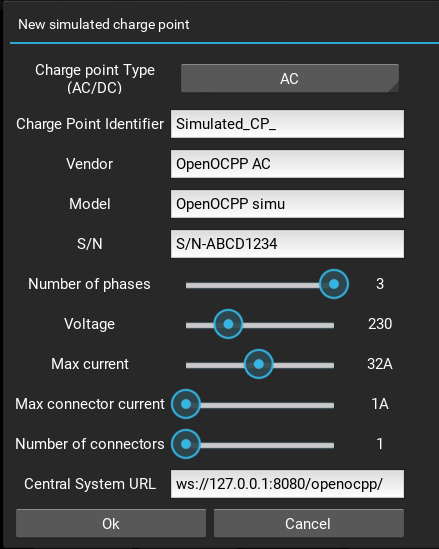
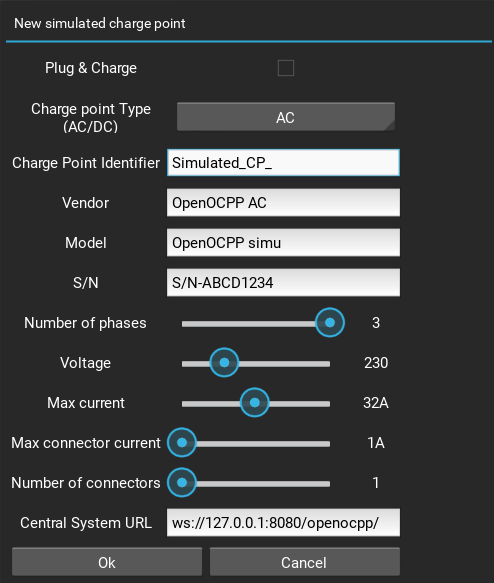
Update doc for iso15118 PnC

diff --git a/README.md b/README.md
@@ -247,10 +247,10 @@ Payload :
 {
     "type": "start",
     "charge_points": [
-        { "id": "simu_cp_XXX", "type": "AC", "vendor": "Open OCPP AC", "model": "Simulated CP", "serial": "S/NABCD1234", "central_system": "ws://localhost:8080", "nb_connectors": 1, "nb_phases": 3, "voltage": 230.0, "max_setpoint": 32, "max_setpoint_per_connector": 16 },
-        { "id": "simu_cp_YYY", "type": "AC", "vendor": "Open OCPP AC", "model": "Simulated CP", "serial": "S/NABCD5678", "central_system": "ws://localhost:8080", "nb_connectors": 2, "nb_phases": 1, "voltage": 230.0, "max_setpoint": 32, "max_setpoint_per_connector": 32 },
-        { "id": "simu_cp_XXX", "type": "DC", "vendor": "Open OCPP DC", "model": "Simulated CP", "serial": "S/NABCD1234", "central_system": "ws://localhost:8080", "nb_connectors": 1, "nb_phases": 1, "voltage": 400.0, "max_setpoint": 300000, "max_setpoint_per_connector": 300000 },
-        { "id": "simu_cp_YYY", "type": "DC", "vendor": "Open OCPP DC", "model": "Simulated CP", "serial": "S/NABCD5678", "central_system": "ws://localhost:8080", "nb_connectors": 2, "nb_phases": 1, "voltage": 230.0, "max_setpoint": 500000, "max_setpoint_per_connector": 250000 },
+        { "id": "simu_cp_XXX", "type": "AC", "vendor": "Open OCPP AC", "model": "Simulated CP", "serial": "S/NABCD1234", "central_system": "ws://localhost:8080", "nb_connectors": 1, "nb_phases": 3, "voltage": 230.0, "max_setpoint": 32, "max_setpoint_per_connector": 16, "iso15118_pnc_enabled":false },
+        { "id": "simu_cp_YYY", "type": "AC", "vendor": "Open OCPP AC", "model": "Simulated CP", "serial": "S/NABCD5678", "central_system": "ws://localhost:8080", "nb_connectors": 2, "nb_phases": 1, "voltage": 230.0, "max_setpoint": 32, "max_setpoint_per_connector": 32, "iso15118_pnc_enabled":false },
+        { "id": "simu_cp_XXX", "type": "DC", "vendor": "Open OCPP DC", "model": "Simulated CP", "serial": "S/NABCD1234", "central_system": "ws://localhost:8080", "nb_connectors": 1, "nb_phases": 1, "voltage": 400.0, "max_setpoint": 300000, "max_setpoint_per_connector": 300000, "iso15118_pnc_enabled":false },
+        { "id": "simu_cp_YYY", "type": "DC", "vendor": "Open OCPP DC", "model": "Simulated CP", "serial": "S/NABCD5678", "central_system": "ws://localhost:8080", "nb_connectors": 2, "nb_phases": 1, "voltage": 230.0, "max_setpoint": 500000, "max_setpoint_per_connector": 250000, "iso15118_pnc_enabled":true },
 
     ]
 }
@@ -282,10 +282,10 @@ Payload :
 {
     "type": "restart",
     "charge_points": [
-        { "id": "simu_cp_XXX", "type": "AC", "vendor": "Open OCPP AC", "model": "Simulated CP", "serial": "S/NABCD1234", "central_system": "ws://localhost:8080", "nb_connectors": 1, "nb_phases": 3, "voltage": 230.0, "max_setpoint": 32, "max_setpoint_per_connector": 16 },
-        { "id": "simu_cp_YYY", "type": "AC", "vendor": "Open OCPP AC", "model": "Simulated CP", "serial": "S/NABCD5678", "central_system": "ws://localhost:8080", "nb_connectors": 2, "nb_phases": 1, "voltage": 230.0, "max_setpoint": 32, "max_setpoint_per_connector": 32 },
-        { "id": "simu_cp_XXX", "type": "DC", "vendor": "Open OCPP DC", "model": "Simulated CP", "serial": "S/NABCD1234", "central_system": "ws://localhost:8080", "nb_connectors": 1, "nb_phases": 1, "voltage": 400.0, "max_setpoint": 300000, "max_setpoint_per_connector": 300000 },
-        { "id": "simu_cp_YYY", "type": "DC", "vendor": "Open OCPP DC", "model": "Simulated CP", "serial": "S/NABCD5678", "central_system": "ws://localhost:8080", "nb_connectors": 2, "nb_phases": 1, "voltage": 230.0, "max_setpoint": 500000, "max_setpoint_per_connector": 250000 },
+        { "id": "simu_cp_XXX", "type": "AC", "vendor": "Open OCPP AC", "model": "Simulated CP", "serial": "S/NABCD1234", "central_system": "ws://localhost:8080", "nb_connectors": 1, "nb_phases": 3, "voltage": 230.0, "max_setpoint": 32, "max_setpoint_per_connector": 16, "iso15118_pnc_enabled":false },
+        { "id": "simu_cp_YYY", "type": "AC", "vendor": "Open OCPP AC", "model": "Simulated CP", "serial": "S/NABCD5678", "central_system": "ws://localhost:8080", "nb_connectors": 2, "nb_phases": 1, "voltage": 230.0, "max_setpoint": 32, "max_setpoint_per_connector": 32 , "iso15118_pnc_enabled":true },
+        { "id": "simu_cp_XXX", "type": "DC", "vendor": "Open OCPP DC", "model": "Simulated CP", "serial": "S/NABCD1234", "central_system": "ws://localhost:8080", "nb_connectors": 1, "nb_phases": 1, "voltage": 400.0, "max_setpoint": 300000, "max_setpoint_per_connector": 300000, "iso15118_pnc_enabled":true },
+        { "id": "simu_cp_YYY", "type": "DC", "vendor": "Open OCPP DC", "model": "Simulated CP", "serial": "S/NABCD5678", "central_system": "ws://localhost:8080", "nb_connectors": 2, "nb_phases": 1, "voltage": 230.0, "max_setpoint": 500000, "max_setpoint_per_connector": 250000, "iso15118_pnc_enabled":true },
     ]
 }
 ```
@@ -307,7 +307,8 @@ The status message has the following payload :
     "max_setpoint":32.0,
     "central_system":"wss://127.0.0.1:9980/",
     "type":"AC",
-    "voltage":230.0"
+    "voltage":230.0",
+    "iso15118_pnc_enabled":false
 }
 ```
 
@@ -357,6 +358,17 @@ The expected command payload is :
  }
  ```
 
+For ISO15118 plug & charge, Each connector of the simulated Charge Point listens to the following topic to simulate Plug & Charge authentication : **cp_simu/cps/simu_cp_XXX/connectors/N/id_token** where **N** stands for the connector number.
+
+The expected command payload is :
+
+ ```
+ {
+    "id": "ID_TOKEN"
+ }
+ ```
+
+
 Each connector of the simulated Charge Point are listening to the following topic to force the Charge Point in faulted status : **cp_simu/cps/simu_cp_XXX/connectors/N/faulted** where **N** stands for the connector number.
 
 The expected command payload is :
@@ -366,7 +378,6 @@ The expected command payload is :
     "faulted": false
  }
  ```
-
 
 Each simulated Charge Point are listening to the following topic to execute a certain command: **cp_simu/cps/simu_cp_XXX/cmd**.
 
